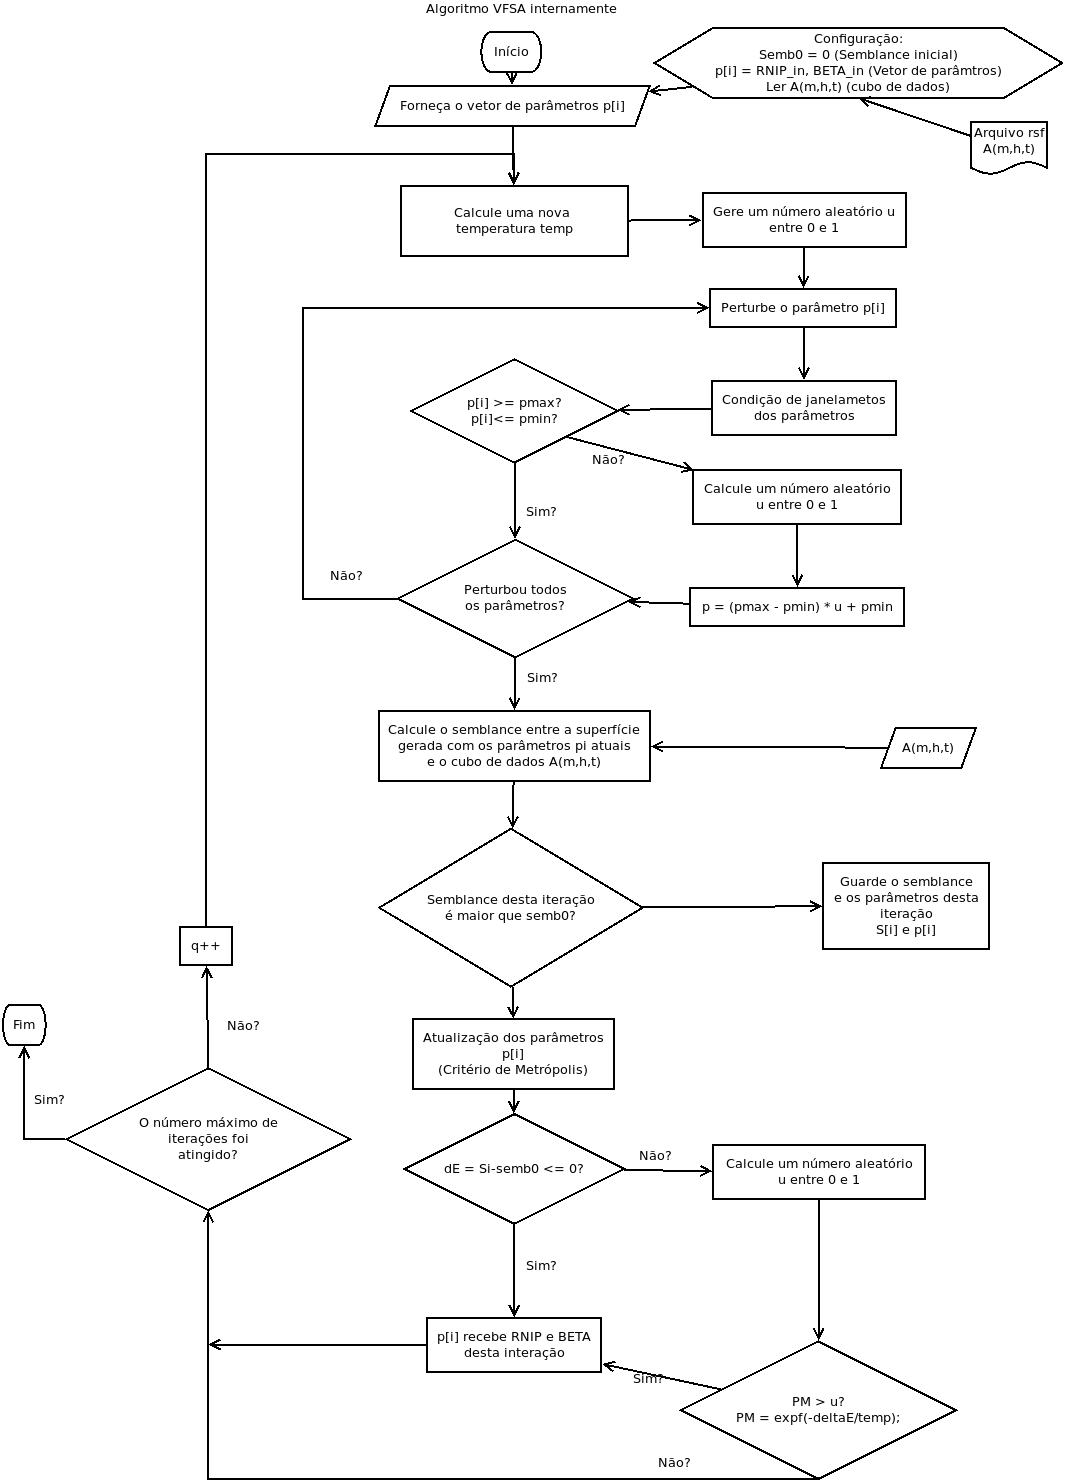
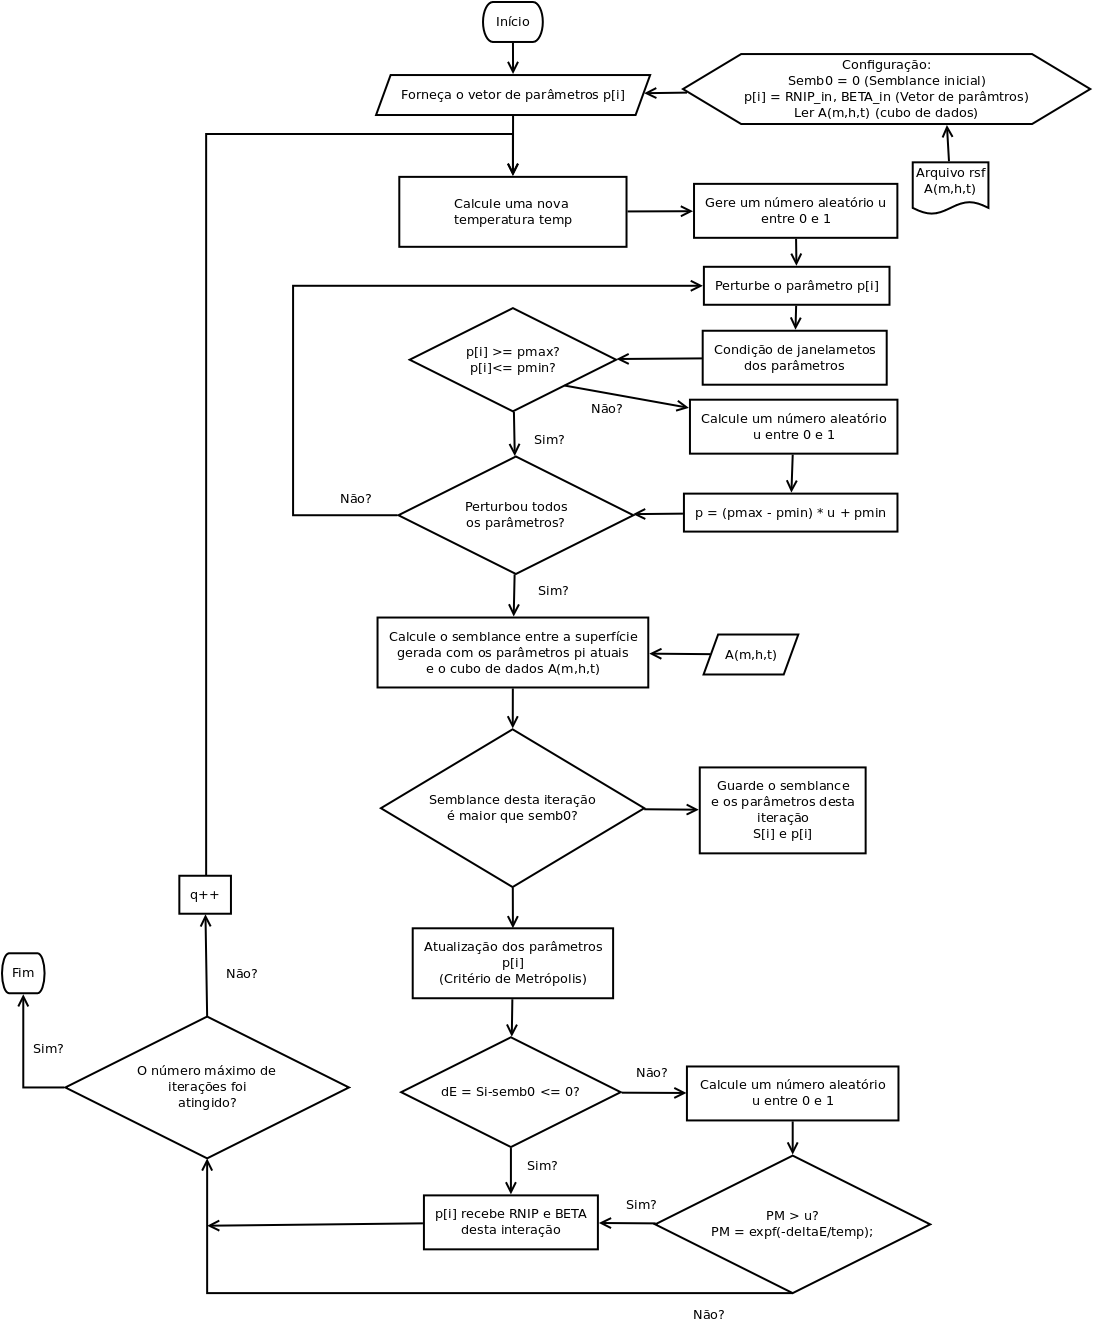
Melhorando resolução do diagrama
O tipo PNG (antieliased) parece ser o melhor formato para exportar
imagens do DIA.

diff --git a/vfsa.tex b/vfsa.tex
@@ -160,7 +160,7 @@ fim do laço
 \caption{Fluxo de processamento do algoritmo de otimização global Very Fast Simulated Aneeling (VFSA)
 proposto para obtenção dos parâmetros do SRC de afastamento nulo.}
 \begin{center}
-\includegraphics[scale=0.43]{images/VFSA.png}
+\includegraphics[scale=0.45]{images/VFSA.png}
 \vspace{-0.3cm}
 \end{center}
 \begin{center}
